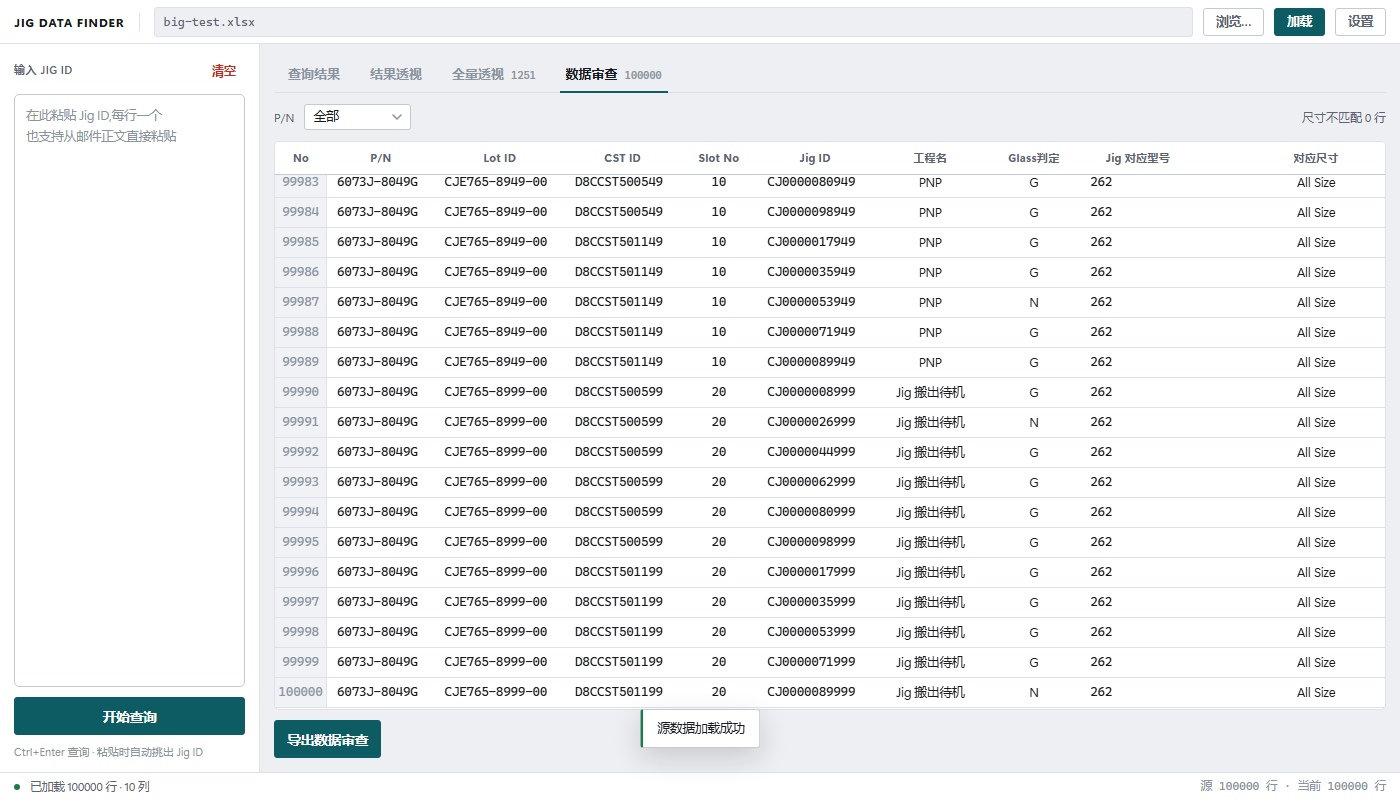
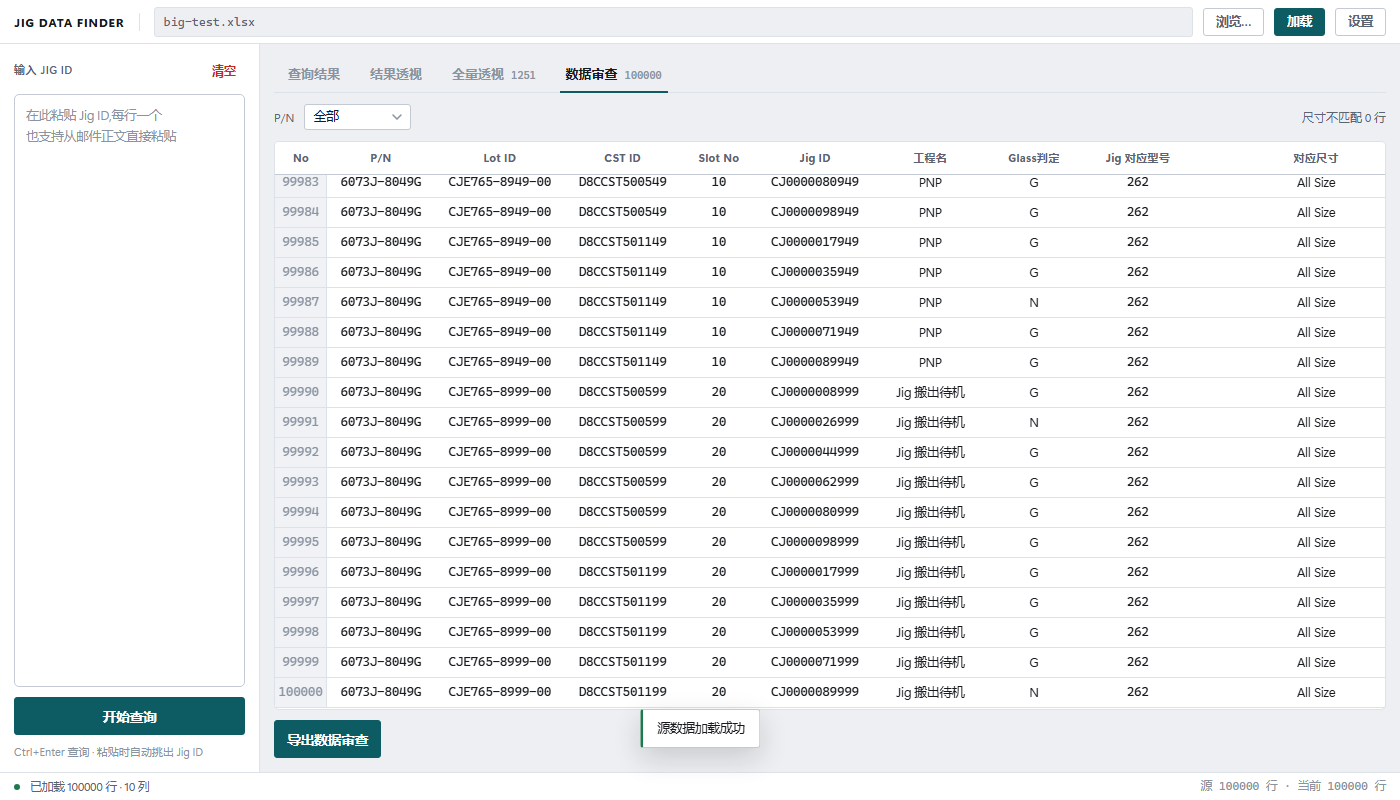
feat: 总计列固定最右侧并右对齐, 顺带修一个白屏 bug
用户反馈"总计列应固定在最右侧"。

改动:
- Grid 新增 pinLastColumn 属性: 富余宽度分给该列**之前**的那一列,
  让汇总列始终紧贴右边缘。之前一律给最后一列, 导致总计列又宽又靠中间。
- 汇总列样式: 数字右对齐 (报表惯例, 个位能扫成竖线) + 左侧竖规与明细分隔。
- 只有透视类页面传该属性; 明细表/审查页没有"总计"列, 不传。

顺带修一个更严重的问题 —— 空状态 return 位置错误导致 React #310:
空状态的 return 写在使用 ResizeObserver 的 useLayoutEffect 之前, 于是
"空表 -> 有数据"切换时 Hook 调用数量跳变, React 抛
"渲染时对象结构变了", 整个界面白屏 (#root 变成空)。
Rules of Hooks 要求每次渲染执行相同数量、相同顺序的 Hook, 条件
return 不能出现在中间。已把空状态移到所有 Hook 之后。

验证:
- 三个页面的汇总列状态实测: 全量透视/结果透视 rightGap=0 (贴右)、
  宽 68px、flex-end (右对齐); 数据审查无汇总列, 符合预期
- npm test 71 项通过
- 压力测试 6 项通过 (10 万行, 含列对齐检查)
- 分发包 23 项验收全过, 总计 205 与基线一致

diff --git a/src/ui/Grid.tsx b/src/ui/Grid.tsx
@@ -17,6 +17,13 @@ export interface GridProps {
   emptyTitle: string
   emptyHint: string
   keywordTotal?: string
+  /**
+   * 需要贴右固定显示的汇总列名 (如 "总计")。
+   * 富余宽度不分配给它, 而是分给前面的列, 让它始终紧贴右边缘。
+   */
+  pinLastColumn?: string
+  /** 行高 (px), 需与 CSS --row-h 保持一致 */
+  rowHeight?: number
 }
 
 /** 判断一行是否为小计行 (CST ID == "--") */
@@ -75,8 +82,9 @@ export default function Grid({
   emptyTitle,
   emptyHint,
   keywordTotal = '总计',
+  pinLastColumn,
   rowHeight = DEFAULT_ROW_H,
-}: GridProps & { rowHeight?: number }) {
+}: GridProps) {
   // 外层 wrap 负责画边框并提供可用宽度, 内层 scroll 负责滚动。
   // 分开是为了避免"滚动条宽度影响可用宽度, 可用宽度又影响列宽"的循环。
   const wrapRef = useRef<HTMLDivElement>(null)
@@ -109,18 +117,6 @@ export default function Grid({
     overscan: OVERSCAN,
   })
 
-  if (isEmpty) {
-    return (
-      <div className="grid-wrap">
-        <div className="empty">
-          <div className="empty__rule" />
-          <div className="empty__title">{emptyTitle}</div>
-          <div className="empty__hint">{emptyHint}</div>
-        </div>
-      </div>
-    )
-  }
-
   const offset = showRowNumbers ? 1 : 0
   const sizeIdx = sizeColumn ? table.columns.indexOf(sizeColumn) : -1
   const items = virtualizer.getVirtualItems()
@@ -149,9 +145,13 @@ export default function Grid({
    * 空间重新分配给各列 —— 各列内容长度不同, 分到的量也不同, 于是又
    * 出现错位 (实测最大偏 79px, 且随列号递增)。
    *
-   * 解决办法: 测量滚动容器的实际可用宽度, 把富余量全部塞给最后一列。
-   * 这样除最后一列外, 每列都是精确值, 表头与数据行必然对齐;
-   * 最后一列多出来的宽度两边一致, 也不会错位。
+   * 解决办法: 测量滚动容器的实际可用宽度, 由 JS 精确分配富余量。
+   * 表头与所有数据行共用同一份 grid-template-columns, 必然对齐。
+   *
+   * 富余量给谁: 默认给最后一列; 但若指定了 pinLastColumn (汇总列
+   * "总计"), 则分给它前面的列 —— 汇总列必须紧贴右边缘, 数字才好
+   * 纵向扫读对比。之前一律给最后一列, 导致总计列又宽又靠中间,
+   * 视觉上不像是收尾列。
    *
    * 注意必须测 .grid-scroll 的 clientWidth, 不能测外层 .grid-wrap:
    * 横向滚动条出现/消失会改变 scroll 的可用宽度, 而表格宽度是根据
@@ -176,22 +176,30 @@ export default function Grid({
     return () => ro.disconnect()
   }, [])
 
+  // 汇总列在 column 索引中的位置 (-1 表示无)
+  const pinIdx = useMemo(
+    () => (pinLastColumn ? table.columns.indexOf(pinLastColumn) : -1),
+    [pinLastColumn, table.columns],
+  )
+
   const resolved = useMemo(() => {
     const sum = baseWidths.reduce((a, b) => a + b, 0)
-    // 容器已测量且比列宽总和宽 -> 富余量给最后一列。
-    // 若列宽总和本来就超过容器, 不做任何调整: 表格进入横向滚动,
-    // 此时各列严格按给定宽度排布, 本来就对齐。
-    const lastIdx = baseWidths.length - 1
-    const cols =
-      wrapW > sum && lastIdx >= 0
-        ? baseWidths.map((w, i) => (i === lastIdx ? w + (wrapW - sum) : w))
-        : baseWidths
-    return {
-      cols,
-      sum: cols.reduce((a, b) => a + b, 0),
-      idxW,
+    if (wrapW <= sum) {
+      // 列宽总和本来就超过容器: 不调整, 表格进入横向滚动,
+      // 此时各列严格按给定宽度排布, 本来就对齐。
+      return { cols: baseWidths, sum, idxW }
     }
-  }, [baseWidths, wrapW, idxW])
+
+    // 富余量分给谁:
+    //  - 有汇总列 -> 分给汇总列之前的那一列, 让汇总列贴右
+    //  - 无汇总列 -> 仍给最后一列 (通用兜底)
+    const target =
+      pinIdx > 0 ? pinIdx - 1 : baseWidths.length - 1
+    const extra = wrapW - sum
+    const cols = baseWidths.map((w, i) => (i === target ? w + extra : w))
+
+    return { cols, sum: wrapW, idxW }
+  }, [baseWidths, wrapW, idxW, pinIdx])
 
   /*
    * grid-template-columns 的值。表头与所有数据行共用这一份定义,
@@ -201,6 +209,26 @@ export default function Grid({
     ...(showRowNumbers ? [`${resolved.idxW}px`] : []),
     ...resolved.cols.map((w) => `${w}px`),
   ].join(' ')
+
+  /*
+   * 空状态必须放在所有 Hook 之后。
+   *
+   * 之前它写在使用 ResizeObserver 的 useLayoutEffect 之前, 于是
+   * "空表 -> 有数据" 切换时 Hook 调用数量发生跳变, React 抛 #310
+   * (渲染时对象结构变了), 整个界面白屏。Rules of Hooks 要求每次
+   * 渲染执行相同数量、相同顺序的 Hook, 条件 return 不能出现在中间。
+   */
+  if (isEmpty) {
+    return (
+      <div className="grid-wrap" ref={wrapRef}>
+        <div className="empty">
+          <div className="empty__rule" />
+          <div className="empty__title">{emptyTitle}</div>
+          <div className="empty__hint">{emptyHint}</div>
+        </div>
+      </div>
+    )
+  }
 
   return (
     <div className="grid-wrap" ref={wrapRef}>
@@ -219,8 +247,12 @@ export default function Grid({
                 No
               </div>
             )}
-            {table.columns.map((c) => (
-              <div key={c} className="grid__th" role="columnheader">
+            {table.columns.map((c, ci) => (
+              <div
+                key={c}
+                className={ci === pinIdx ? 'grid__th grid__th--total' : 'grid__th'}
+                role="columnheader"
+              >
                 {c}
               </div>
             ))}
@@ -262,6 +294,12 @@ export default function Grid({
                     const cls = [
                       isNumericColumn(c) ? 'num' : isMonoColumn(c) ? 'mono' : '',
                       isSize && bad ? 'bad bad-bg' : '',
+                      /*
+                       * 汇总列: 数字右对齐 + 左侧竖规。
+                       * 右对齐是报表惯例 —— 数字位数不同时个位能扫成
+                       * 一条竖线; 竖规则把它与明细列在视觉上分开。
+                       */
+                      ci === pinIdx ? 'grid__td--total' : '',
                     ]
                       .filter(Boolean)
                       .join(' ')

diff --git a/src/App.tsx b/src/App.tsx
@@ -556,6 +556,7 @@ export default function App() {
               table={queryPivot}
               showRowNumbers={false}
               rowHeight={cfg.tableDefaultRowHeight}
+              pinLastColumn={cfg.keywordTotal}
               emptyTitle="还没有结果透视"
               emptyHint="先执行一次查询, 这里会按 P/N 和工序汇总命中记录。"
             />
@@ -565,6 +566,7 @@ export default function App() {
               table={currentPivot}
               showRowNumbers={false}
               rowHeight={cfg.tableDefaultRowHeight}
+              pinLastColumn={cfg.keywordTotal}
               emptyTitle="还没有加载源数据"
               emptyHint="选择 MES 导出的 Excel 文件开始。支持 .xlsx 与 .xls, 程序只读取不修改源文件。"
             />

diff --git a/src/styles/app.css b/src/styles/app.css
@@ -585,6 +585,25 @@ textarea {
   border-left: 2px solid var(--ok);
 }
 
+/* ---- 汇总列 (总计): 数字右对齐 + 左侧竖规 ---- */
+
+/*
+ * 右对齐是报表惯例: 数字位数不同时, 个位能扫成一条竖线, 比居中
+ * 更容易纵向比较大小。左侧竖规把它与明细列在视觉上分开。
+ */
+.grid__th--total,
+.grid__td--total {
+  justify-content: flex-end;
+  padding-right: 14px;
+}
+
+.grid__td--total {
+  border-left: 1px solid var(--rule-strong);
+  font-family: var(--font-mono);
+  font-variant-numeric: tabular-nums;
+  font-weight: 600;
+}
+
 /* ---- 唯一允许的彩色: 尺寸不匹配 ---- */
 
 .grid__td.bad {
